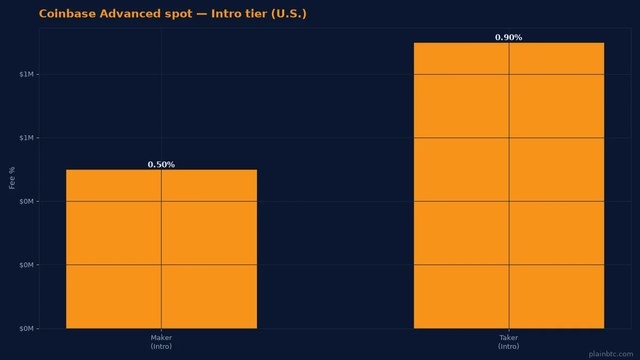
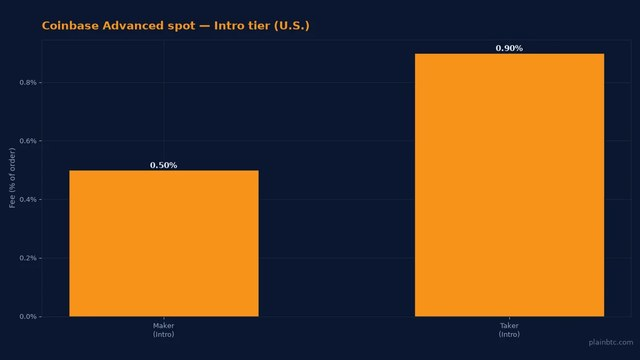
Fix mislabeled in-article charts: Coinbase fees y-axis in % and cash-out timing as 3-5 business days vs 30 min-24 h (new -v2 files, 10 languages); refresh their homepage/email thumbs

diff --git a/ru/articles/how-to-cash-out-bitcoin-coinbase-to-bank.html b/ru/articles/how-to-cash-out-bitcoin-coinbase-to-bank.html
@@ -253,7 +253,7 @@
       <p><strong> Мгновенный вывод средств (если соответствует критериям): </strong> <a href="https://help.coinbase.com/en/coinbase/getting-started/add-a-payment-method/instant-cashout" target="_blank" rel="noopener">страница справки по мгновенному выводу средств</a> Coinbase говорит, что отвечающие критериям клиенты из США могут отправлять USD или USDC в банк с поддержкой RTP (лимит составляет $ 100 000 за транзакцию) или обналичивать средства на определенные фонды Visa Fast/ Mastercard Отправить карты. Мгновенный вывод средств с банковской карты или карты может занять от 30 минут до 24 часов в зависимости от сети банка или карты, при этом взимается стандартная комиссия за транзакцию.</p>
 
       <figure class="article-figure">
-        <img src="/assets/img/how-to-cash-out-bitcoin-coinbase-to-bank/chart-ach-days.webp" width="1200" height="630" alt="График: типичные сроки ACH в несколько рабочих дней против более быстрых мгновенных выводов" loading="lazy" decoding="async">
+        <img src="/assets/img/how-to-cash-out-bitcoin-coinbase-to-bank/chart-ach-days-v2.webp" width="1200" height="630" alt="График: типичные сроки ACH в несколько рабочих дней против более быстрых мгновенных выводов" loading="lazy" decoding="async">
         <figcaption>График: PlainBTC, данные: Coinbase Help (ACH 3–5 business days)</figcaption>
       </figure>
 

diff --git a/ru/articles/coinbase-fees-explained.html b/ru/articles/coinbase-fees-explained.html
@@ -269,7 +269,7 @@
       <p>Ваш уровень основан на последних критериях объема или баланса USDC, в зависимости от того, что вам больше подходит. Coinbase говорит, чтобы проверить ваши ставки в режиме реального времени в Advanced. Для публичного ориентира <a href="https://www.coinbase.com/advanced-vip" target="_blank" rel="noopener">Расширенная VIP-страница</a> Coinbase перечисляет спотовый уровень <strong>  Intro </strong> <strong> 0,50% maker и 0,90% taker </strong>, с более низкими ставками по мере увеличения объема или баланса USDC, до 0% maker / 0,02% taker на верхнем VIP-уровне. Ставки являются региональными; игнорируйте котировки ЕС или других рынков, если вы торгуете из США</p>
 
       <figure class="article-figure">
-        <img src="/assets/img/coinbase-fees-explained/chart-advanced-intro.webp" width="1200" height="630" alt="Столбчатый график: комиссии Intro Coinbase Advanced на споте — maker 0,50% и taker 0,90%" loading="lazy" decoding="async">
+        <img src="/assets/img/coinbase-fees-explained/chart-advanced-intro-v2.webp" width="1200" height="630" alt="Столбчатый график: комиссии Intro Coinbase Advanced на споте — maker 0,50% и taker 0,90%" loading="lazy" decoding="async">
         <figcaption>График: PlainBTC, данные: Coinbase Advanced VIP table</figcaption>
       </figure>
 

diff --git a/ja/articles/how-to-cash-out-bitcoin-coinbase-to-bank.html b/ja/articles/how-to-cash-out-bitcoin-coinbase-to-bank.html
@@ -251,7 +251,7 @@
       <p><strong>インスタントキャッシュアウト（対象となる場合） ： </strong> Coinbaseの<a href="https://help.coinbase.com/en/coinbase/getting-started/add-a-payment-method/instant-cashout" target="_blank" rel="noopener">即時現金化ヘルプページ</a>によると、対象となる米国の顧客は、RTP対応銀行にUSDまたはUSDCを送金することができます（取引ごとに100,000ドルに制限されています）。また、特定のVisa Fast Funds/Mastercard Sendカードに現金化することもできます。銀行またはカードのネットワークによっては、銀行またはカードの即時現金化に約30分から最大24時間かかる場合があり、通常の取引手数料が適用されます。</p>
 
       <figure class="article-figure">
-        <img src="/assets/img/how-to-cash-out-bitcoin-coinbase-to-bank/chart-ach-days.webp" width="1200" height="630" alt="棒グラフ：数営業日かかる一般的なACH出金と、より速いインスタントキャッシュアウトの比較" loading="lazy" decoding="async">
+        <img src="/assets/img/how-to-cash-out-bitcoin-coinbase-to-bank/chart-ach-days-v2.webp" width="1200" height="630" alt="棒グラフ：数営業日かかる一般的なACH出金と、より速いインスタントキャッシュアウトの比較" loading="lazy" decoding="async">
         <figcaption>チャート: PlainBTC、データ: Coinbase Help (ACH 3–5 business days)</figcaption>
       </figure>
 

diff --git a/ja/articles/coinbase-fees-explained.html b/ja/articles/coinbase-fees-explained.html
@@ -267,7 +267,7 @@
       <p>ランクは、最近のボリュームまたはUSDCの残高基準に基づいています。Coinbaseは、Advanced内でライブレートを確認するように指示しています。公開されている参照ポイントとして、Coinbaseの<a href="https://www.coinbase.com/advanced-vip" target="_blank" rel="noopener">上級VIPページ</a>は、<strong> Intro </strong>スポットティア<strong> 0.50%メーカーと0.90%テイカー</strong>をリストアップしています。ボリュームまたはUSDC残高が上昇するにつれてレートが下がり、トップVIPレベルでは0%メーカー/0.02%テイカーになります。レートは地域的です。米国から取引する場合は、EUまたはその他の市場の見積もりを無視してください。</p>
 
       <figure class="article-figure">
-        <img src="/assets/img/coinbase-fees-explained/chart-advanced-intro.webp" width="1200" height="630" alt="棒グラフ：Coinbase AdvancedのIntroスポット手数料（メイカー0.50%、テイカー0.90%）" loading="lazy" decoding="async">
+        <img src="/assets/img/coinbase-fees-explained/chart-advanced-intro-v2.webp" width="1200" height="630" alt="棒グラフ：Coinbase AdvancedのIntroスポット手数料（メイカー0.50%、テイカー0.90%）" loading="lazy" decoding="async">
         <figcaption>チャート: PlainBTC、データ: Coinbase Advanced VIP table</figcaption>
       </figure>
 

diff --git a/fr/articles/how-to-cash-out-bitcoin-coinbase-to-bank.html b/fr/articles/how-to-cash-out-bitcoin-coinbase-to-bank.html
@@ -252,7 +252,7 @@
       <p><strong> Encaissements instantanés (si éligibles) : </strong> <a href="https://help.coinbase.com/en/coinbase/getting-started/add-a-payment-method/instant-cashout" target="_blank" rel="noopener">page d'aide pour l'encaissement instantané</a> de Coinbase indique  que les clients américains éligibles peuvent envoyer des USD ou des USDC à une banque compatible RTP (limite citée à 100 000 $ par transaction) ou encaisser certaines cartes Visa Fast Funds / Mastercard Send. Les retraits bancaires ou par carte instantanés peuvent prendre environ 30 minutes et jusqu'à 24 heures selon la banque ou le réseau de cartes, et des frais de transaction standard s'appliquent.</p>
 
       <figure class="article-figure">
-        <img src="/assets/img/how-to-cash-out-bitcoin-coinbase-to-bank/chart-ach-days.webp" width="1200" height="630" alt="Graphique comparant le délai ACH typique de plusieurs jours ouvrés aux cashouts instantanés plus rapides" loading="lazy" decoding="async">
+        <img src="/assets/img/how-to-cash-out-bitcoin-coinbase-to-bank/chart-ach-days-v2.webp" width="1200" height="630" alt="Graphique comparant le délai ACH typique de plusieurs jours ouvrés aux cashouts instantanés plus rapides" loading="lazy" decoding="async">
         <figcaption>Graphique : PlainBTC, données : Coinbase Help (ACH 3–5 business days)</figcaption>
       </figure>
 

diff --git a/es/articles/how-to-cash-out-bitcoin-coinbase-to-bank.html b/es/articles/how-to-cash-out-bitcoin-coinbase-to-bank.html
@@ -252,7 +252,7 @@
       <p><strong> Retiros instantáneos (si es elegible): </strong>  Coinbase's  <a href="https://help.coinbase.com/en/coinbase/getting-started/add-a-payment-method/instant-cashout" target="_blank" rel="noopener">página de ayuda de retiro instantáneo</a>  dice que los clientes estadounidenses elegibles pueden enviar USD o USDC a un banco habilitado para RTP (límite citado en $ 100,000 por transacción) o retirar dinero a ciertas tarjetas Visa Fast Funds / Mastercard Send. Las retiradas de efectivo instantáneas en bancos o tarjetas pueden tardar entre 30 minutos y 24 horas, dependiendo de la red bancaria o de la tarjeta, y se aplican tarifas de transacción estándar.</p>
 
       <figure class="article-figure">
-        <img src="/assets/img/how-to-cash-out-bitcoin-coinbase-to-bank/chart-ach-days.webp" width="1200" height="630" alt="Gráfico que compara el plazo típico ACH de varios días hábiles con los cashouts instantáneos más rápidos" loading="lazy" decoding="async">
+        <img src="/assets/img/how-to-cash-out-bitcoin-coinbase-to-bank/chart-ach-days-v2.webp" width="1200" height="630" alt="Gráfico que compara el plazo típico ACH de varios días hábiles con los cashouts instantáneos más rápidos" loading="lazy" decoding="async">
         <figcaption>Gráfico: PlainBTC, datos: Coinbase Help (ACH 3–5 business days)</figcaption>
       </figure>
 

diff --git a/tr/articles/how-to-cash-out-bitcoin-coinbase-to-bank.html b/tr/articles/how-to-cash-out-bitcoin-coinbase-to-bank.html
@@ -252,7 +252,7 @@
       <p><strong> Anında para transferi (uygunsa): </strong> Coinbase'den <a href="https://help.coinbase.com/en/coinbase/getting-started/add-a-payment-method/instant-cashout" target="_blank" rel="noopener">anında para transferi yardım sayfası</a>, uygun ABD'li müşterilerin RTP özellikli bir bankaya USD veya USDC gönderebileceğini (işlem başına 100.000 $ olarak belirtilen limit) veya belirli Visa Fast Funds / Mastercard Send kartlarına para transferi yapabileceğini söylüyor. Anında banka veya kartla para transferi, banka veya kart ağına bağlı olarak yaklaşık 30 dakika ve 24 saate kadar sürebilir ve standart işlem ücretleri uygulanır.</p>
 
       <figure class="article-figure">
-        <img src="/assets/img/how-to-cash-out-bitcoin-coinbase-to-bank/chart-ach-days.webp" width="1200" height="630" alt="Çubuk grafik: birkaç iş günü süren tipik ACH çıkışı ile daha hızlı anlık cashout karşılaştırması" loading="lazy" decoding="async">
+        <img src="/assets/img/how-to-cash-out-bitcoin-coinbase-to-bank/chart-ach-days-v2.webp" width="1200" height="630" alt="Çubuk grafik: birkaç iş günü süren tipik ACH çıkışı ile daha hızlı anlık cashout karşılaştırması" loading="lazy" decoding="async">
         <figcaption>Grafik: PlainBTC, veri: Coinbase Help (ACH 3–5 business days)</figcaption>
       </figure>
 

diff --git a/ko/articles/coinbase-fees-explained.html b/ko/articles/coinbase-fees-explained.html
@@ -267,7 +267,7 @@
       <p>등급은 최근 거래량 또는 USDC 잔액 기준 중 선호하는 기준에 따라 결정됩니다. Coinbase는 Advanced 내에서 실시간 요금을 확인하라고 말합니다. 공개 기준점을 위해 코인베이스의 <a href="https://www.coinbase.com/advanced-vip" target="_blank" rel="noopener">고급 VIP 페이지</a>는 <strong> 0.50% 메이커와 0.90% 테이커 </strong>의 <strong> 소개 </strong> 스팟 티어를 나열하며, 볼륨 또는 USDC 잔액이 증가함에 따라 더 낮은 비율로 상위 VIP 레벨에서 메이커 0%/테이커 0.02% 로 내려갑니다. 요금은 지역적입니다. 미국에서 거래하는 경우 EU 또는 기타 시장 시세를 무시하십시오.</p>
 
       <figure class="article-figure">
-        <img src="/assets/img/coinbase-fees-explained/chart-advanced-intro.webp" width="1200" height="630" alt="막대 차트: 코인베이스 어드밴스드 Intro 현물 메이커 0.50%·테이커 0.90% 수수료" loading="lazy" decoding="async">
+        <img src="/assets/img/coinbase-fees-explained/chart-advanced-intro-v2.webp" width="1200" height="630" alt="막대 차트: 코인베이스 어드밴스드 Intro 현물 메이커 0.50%·테이커 0.90% 수수료" loading="lazy" decoding="async">
         <figcaption>차트: PlainBTC, 데이터: Coinbase Advanced VIP table</figcaption>
       </figure>
 

diff --git a/fr/articles/coinbase-fees-explained.html b/fr/articles/coinbase-fees-explained.html
@@ -268,7 +268,7 @@
       <p>Votre niveau est basé sur des critères récents de volume ou de solde USDC, selon ce qui vous convient. Coinbase dit de vérifier vos tarifs en direct dans Advanced. Pour un point de référence public, le <a href="https://www.coinbase.com/advanced-vip" target="_blank" rel="noopener">Page VIP avancée</a> de  Coinbase  répertorie un niveau au comptant <strong> Intro </strong> de <strong> 0,50 % fabricant et 0,90 % preneur </strong>, avec des taux plus bas à mesure que le volume ou le solde USDC augmente, jusqu'à 0 % fabricant / 0,02 % preneur au niveau VIP supérieur. Les taux sont régionaux ; ignorez les citations de l'UE ou d'un autre marché si vous négociez depuis les États-Unis.</p>
 
       <figure class="article-figure">
-        <img src="/assets/img/coinbase-fees-explained/chart-advanced-intro.webp" width="1200" height="630" alt="Graphique en barres : frais Intro Coinbase Advanced au comptant, maker 0,50 % et taker 0,90 %" loading="lazy" decoding="async">
+        <img src="/assets/img/coinbase-fees-explained/chart-advanced-intro-v2.webp" width="1200" height="630" alt="Graphique en barres : frais Intro Coinbase Advanced au comptant, maker 0,50 % et taker 0,90 %" loading="lazy" decoding="async">
         <figcaption>Graphique : PlainBTC, données : Coinbase Advanced VIP table</figcaption>
       </figure>
 

diff --git a/pt/articles/how-to-cash-out-bitcoin-coinbase-to-bank.html b/pt/articles/how-to-cash-out-bitcoin-coinbase-to-bank.html
@@ -252,7 +252,7 @@
       <p><strong> Saques instantâneos (se elegíveis): </strong> Coinbase  <a href="https://help.coinbase.com/en/coinbase/getting-started/add-a-payment-method/instant-cashout" target="_blank" rel="noopener">página de ajuda para saque instantâneo</a> diz que os clientes elegíveis dos EUA podem enviar USD ou USDC para um banco habilitado para RTP (limite citado em $ 100.000 por transação) ou sacar para certos cartões Visa Fast Funds / Mastercard Send. Os levantamentos instantâneos de bancos ou cartões podem demorar cerca de 30 minutos e até 24 horas, dependendo do banco ou da rede de cartões, e aplicam-se taxas de transação padrão.</p>
 
       <figure class="article-figure">
-        <img src="/assets/img/how-to-cash-out-bitcoin-coinbase-to-bank/chart-ach-days.webp" width="1200" height="630" alt="Gráfico que compara o prazo típico ACH de vários dias úteis com cashouts instantâneos mais rápidos" loading="lazy" decoding="async">
+        <img src="/assets/img/how-to-cash-out-bitcoin-coinbase-to-bank/chart-ach-days-v2.webp" width="1200" height="630" alt="Gráfico que compara o prazo típico ACH de vários dias úteis com cashouts instantâneos mais rápidos" loading="lazy" decoding="async">
         <figcaption>Gráfico: PlainBTC, dados: Coinbase Help (ACH 3–5 business days)</figcaption>
       </figure>
 

diff --git a/ko/articles/how-to-cash-out-bitcoin-coinbase-to-bank.html b/ko/articles/how-to-cash-out-bitcoin-coinbase-to-bank.html
@@ -251,7 +251,7 @@
       <p><strong> 즉시 출금 (적격한 경우): </strong> 코인베이스의 <a href="https://help.coinbase.com/en/coinbase/getting-started/add-a-payment-method/instant-cashout" target="_blank" rel="noopener">즉시 수익 출금 도움말 페이지</a>는 적격한 미국 고객이 USD 또는 USDC를 RTP 지원 은행 (거래당 $ 100,000로 제한) 으로 보내거나 특정 Visa Fast Funds/Mastercard Send 카드로 출금할 수 있다고 말합니다. 즉시 은행 또는 카드 출금은 은행 또는 카드 네트워크에 따라 약 30분에서 최대 24시간이 소요될 수 있으며, 표준 거래 수수료가 부과됩니다.</p>
 
       <figure class="article-figure">
-        <img src="/assets/img/how-to-cash-out-bitcoin-coinbase-to-bank/chart-ach-days.webp" width="1200" height="630" alt="막대 차트: 영업일 수일이 걸리는 일반 ACH 출금과 더 빠른 즉시 캐시아웃 비교" loading="lazy" decoding="async">
+        <img src="/assets/img/how-to-cash-out-bitcoin-coinbase-to-bank/chart-ach-days-v2.webp" width="1200" height="630" alt="막대 차트: 영업일 수일이 걸리는 일반 ACH 출금과 더 빠른 즉시 캐시아웃 비교" loading="lazy" decoding="async">
         <figcaption>차트: PlainBTC, 데이터: Coinbase Help (ACH 3–5 business days)</figcaption>
       </figure>
 

diff --git a/id/articles/how-to-cash-out-bitcoin-coinbase-to-bank.html b/id/articles/how-to-cash-out-bitcoin-coinbase-to-bank.html
@@ -252,7 +252,7 @@
       <p><strong> Pencairan instan (jika memenuhi syarat): </strong>  Coinbase <a href="https://help.coinbase.com/en/coinbase/getting-started/add-a-payment-method/instant-cashout" target="_blank" rel="noopener">halaman bantuan pencairan instan</a> mengatakan pelanggan AS yang memenuhi syarat dapat mengirim USD atau USDC ke bank yang mengaktifkan RTP (batas yang disebutkan sebesar $ 100.000 per transaksi) atau mencairkan ke Dana Cepat Visa/kartu Mastercard Kirim tertentu. Pencairan bank atau kartu instan bisa memakan waktu sekitar 30 menit dan hingga 24 jam tergantung pada jaringan bank atau kartu, dan biaya transaksi standar berlaku.</p>
 
       <figure class="article-figure">
-        <img src="/assets/img/how-to-cash-out-bitcoin-coinbase-to-bank/chart-ach-days.webp" width="1200" height="630" alt="Grafik batang membandingkan waktu cash-out ACH tipikal beberapa hari kerja vs cashout instan yang lebih cepat" loading="lazy" decoding="async">
+        <img src="/assets/img/how-to-cash-out-bitcoin-coinbase-to-bank/chart-ach-days-v2.webp" width="1200" height="630" alt="Grafik batang membandingkan waktu cash-out ACH tipikal beberapa hari kerja vs cashout instan yang lebih cepat" loading="lazy" decoding="async">
         <figcaption>Grafik: PlainBTC, data: Coinbase Help (ACH 3–5 business days)</figcaption>
       </figure>
 
